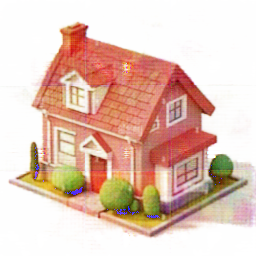
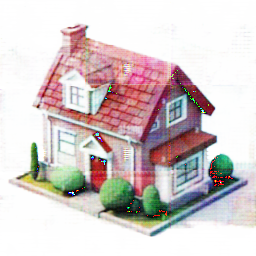
test

diff --git a/generate.py b/generate.py
@@ -57,5 +57,5 @@ def generate_image(input_img_path, genre, model_path, output_image_path):
     data.save(final_path)
 
 if __name__=="__main__":
-    generate_image('HOUSE.jpg', genre='lego', model_path='model19.pth', output_image_path="bigmode4house.jpg")
+    generate_image('HOUSE.jpg', genre='lego', model_path='model30ep.pth', output_image_path="bigmode4house.jpg")
     #generate_image('ORIGINAL.jpg', genre='lego', model_path='bad_discriminator.pth', output_image_path="bad_discriminator.jpg")

diff --git a/train.py b/train.py
@@ -3,7 +3,7 @@ import torch
 from datasets import get_data
 
 images_train_loader, images_test_loader = get_data(1)
-def train(epochs=50, save=True, load=True, model_path='model19.pth'):
+def train(epochs=50, save=True, load=True, model_path='model30ep.pth'):
     device = 'cuda' if torch.cuda.is_available() else 'cpu'
     model = CycleGAN()
     if load:
